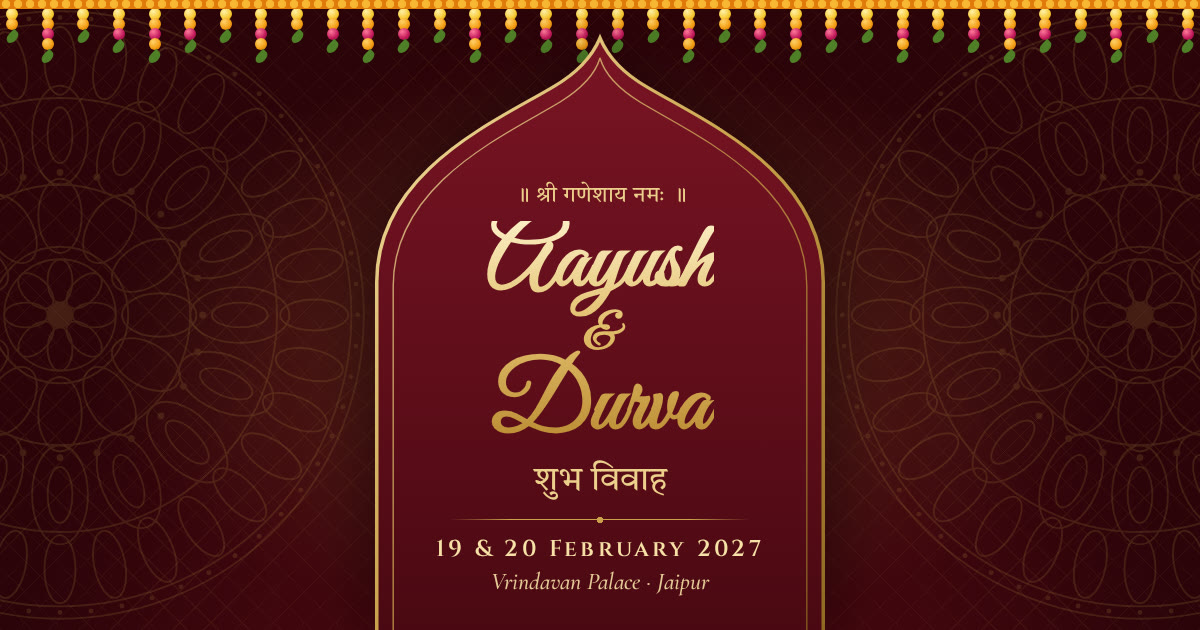
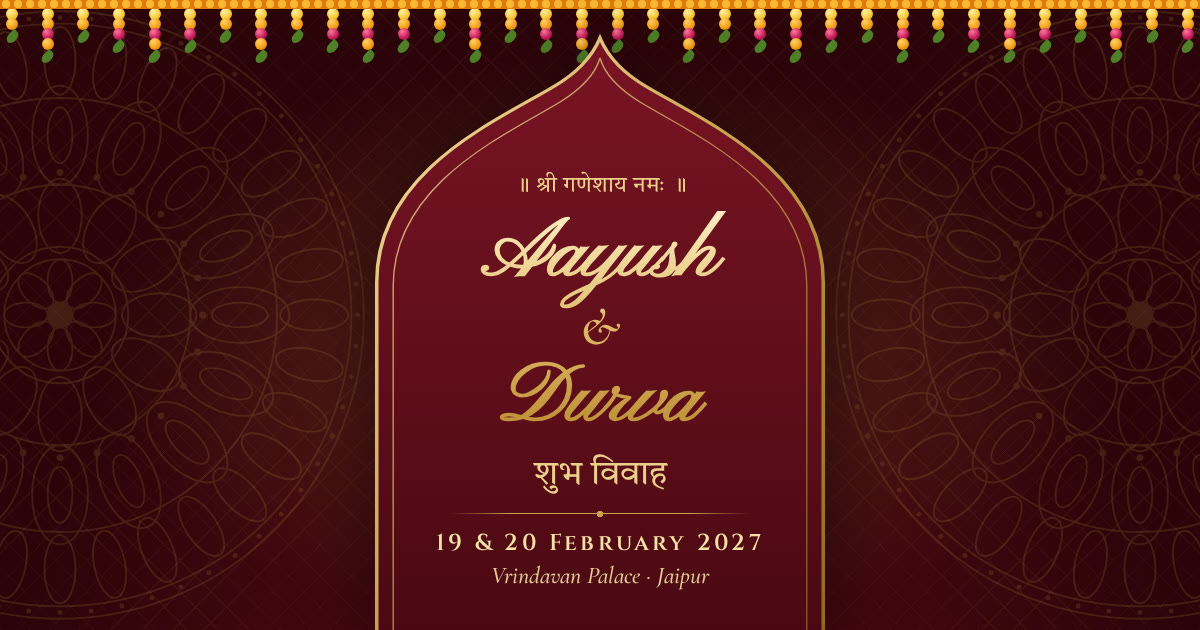
Use Pinyon Script for a clear capital A, fix phone layouts, rename to aarva
- Script font: Great Vibes -> Pinyon Script (its A read as a lowercase a)
  with padding so gold swashes aren't clipped; italic serif ampersand
- Contact cards: role text no longer runs into the arched top on phones
- Nav links share the width so Contact never gets cut off
- Link preview image regenerated with the new font
- aarava -> aarva in preview URLs and calendar IDs

Claude-Session: https://claude.ai/code/session_01J8Q5HpgtyZgNQHBTM1tXKH

Changed region(s): [[0.4008, 0.2714, 0.6167, 0.6937], [0.37, 0.8143, 0.6475, 0.9349], [0.4317, 0.7238, 0.555, 0.7841]]

diff --git a/css/style.css b/css/style.css
@@ -23,7 +23,7 @@
 
   --serif: "Cormorant Garamond", Georgia, serif;
   --display: "Cinzel", "Cormorant Garamond", serif;
-  --script: "Great Vibes", cursive;
+  --script: "Pinyon Script", cursive;
   --hindi: "Tiro Devanagari Hindi", serif;
 
   --nav-h: 56px;
@@ -252,6 +252,7 @@ button { font: inherit; }
 .gate-names {
   position: relative;
   margin: -6px 0 0;
+  padding: .1em .3em;
   font-family: var(--script);
   font-size: clamp(2rem, 8vw, 2.6rem);
   background: var(--gold-text);
@@ -461,13 +462,14 @@ button { font: inherit; }
 }
 .names {
   margin: 4px 0;
+  padding: .1em .3em;
   display: flex;
   flex-direction: column;
   align-items: center;
   font-family: var(--script);
   font-weight: 400;
-  font-size: clamp(3rem, 14vw, 4.6rem);
-  line-height: .95;
+  font-size: clamp(2.9rem, 13vw, 4.4rem);
+  line-height: 1.05;
   background: var(--gold-text);
   -webkit-background-clip: text;
   background-clip: text;
@@ -475,6 +477,10 @@ button { font: inherit; }
   filter: drop-shadow(0 2px 0 rgba(0,0,0,.25));
 }
 .names .amp { font-size: .55em; line-height: 1.1; }
+/* Pinyon's ampersand is hard to read — use the italic serif one */
+.amp { font-family: var(--serif); font-style: italic; font-weight: 500; }
+.gate-names .amp,
+.closing-names .amp { font-size: .75em; }
 .hindi-title {
   margin: 6px 0 0;
   font-size: clamp(1.3rem, 5.5vw, 1.7rem);
@@ -1169,6 +1175,7 @@ button { font: inherit; }
 }
 .venue-info h3 {
   margin: 0;
+  padding: .1em .3em .1em 0;
   font-family: var(--script);
   font-weight: 400;
   font-size: clamp(2.6rem, 9vw, 3.6rem);
@@ -1269,6 +1276,7 @@ button { font: inherit; }
 .closing-hi { margin: 0; font-size: 1.6rem; color: var(--gold-light); }
 .closing-names {
   margin: 8px 0;
+  padding: .1em .3em;
   font-family: var(--script);
   font-size: clamp(3rem, 12vw, 4.6rem);
   line-height: 1.1;
@@ -1409,12 +1417,14 @@ button { font: inherit; }
   .cd-box { width: 62px; }
   .cd-num { font-size: 1.35rem; }
 
-  .nav-links a { padding: 6px 8px; font-size: .66rem; letter-spacing: .08em; }
+  .nav { padding: 0 8px; }
+  .nav-links { flex: 1; justify-content: space-between; }
+  .nav-links a { padding: 6px clamp(4px, 1.6vw, 8px); font-size: clamp(.56rem, 2.75vw, .66rem); letter-spacing: .05em; }
 
   .contacts { grid-template-columns: 1fr 1fr; gap: 12px; }
-  .contact { padding: 22px 10px 16px; border-radius: 70px 70px 12px 12px; }
+  .contact { padding: 40px 10px 16px; border-radius: 50% 50% 12px 12px / 48px 48px 12px 12px; }
   .contact-name { font-size: 1.1rem; }
-  .contact-role { font-size: .55rem; letter-spacing: .14em; }
+  .contact-role { font-size: .58rem; letter-spacing: .1em; line-height: 1.5; }
 }
 
 @media (max-width: 420px) {

diff --git a/index.html b/index.html
@@ -11,19 +11,19 @@
   <meta property="og:title" content="Aayush & Durva · शुभ विवाह" />
   <meta property="og:description" content="19 & 20 February 2027 · Vrindavan Palace, Jaipur. Tap to open your invitation." />
   <meta property="og:type" content="website" />
-  <meta property="og:url" content="https://breakitaayush.github.io/aarava/" />
-  <meta property="og:image" content="https://breakitaayush.github.io/aarava/assets/og-image.jpg" />
-  <meta property="og:image:secure_url" content="https://breakitaayush.github.io/aarava/assets/og-image.jpg" />
+  <meta property="og:url" content="https://breakitaayush.github.io/aarva/" />
+  <meta property="og:image" content="https://breakitaayush.github.io/aarva/assets/og-image.jpg" />
+  <meta property="og:image:secure_url" content="https://breakitaayush.github.io/aarva/assets/og-image.jpg" />
   <meta property="og:image:type" content="image/jpeg" />
   <meta property="og:image:width" content="1200" />
   <meta property="og:image:height" content="630" />
   <meta property="og:image:alt" content="Aayush & Durva · शुभ विवाह · 19 & 20 February 2027 · Vrindavan Palace, Jaipur" />
   <meta name="twitter:card" content="summary_large_image" />
-  <meta name="twitter:image" content="https://breakitaayush.github.io/aarava/assets/og-image.jpg" />
+  <meta name="twitter:image" content="https://breakitaayush.github.io/aarva/assets/og-image.jpg" />
 
   <link rel="preconnect" href="https://fonts.googleapis.com" />
   <link rel="preconnect" href="https://fonts.gstatic.com" crossorigin />
-  <link href="https://fonts.googleapis.com/css2?family=Cinzel:wght@400;600;700&family=Cormorant+Garamond:ital,wght@0,400;0,500;0,600;1,400&family=Great+Vibes&family=Tiro+Devanagari+Hindi&display=swap" rel="stylesheet" />
+  <link href="https://fonts.googleapis.com/css2?family=Cinzel:wght@400;600;700&family=Cormorant+Garamond:ital,wght@0,400;0,500;0,600;1,400&family=Pinyon+Script&family=Tiro+Devanagari+Hindi&display=swap" rel="stylesheet" />
   <link rel="stylesheet" href="css/style.css" />
 </head>
 <body class="locked">

diff --git a/js/main.js b/js/main.js
@@ -16,7 +16,7 @@
     else el.remove();
   });
   const names = `${W.couple.groom} & ${W.couple.bride}`;
-  $$("[data-names]").forEach((el) => (el.textContent = names));
+  $$("[data-names]").forEach((el) => (el.innerHTML = `${esc(W.couple.groom)} <span class="amp">&amp;</span> ${esc(W.couple.bride)}`));
   $$("[data-mono]").forEach((el) => (el.textContent = W.couple.monogram[el.dataset.mono]));
   $$("[data-monogram]").forEach((el) => (el.textContent = `${W.couple.monogram[0]} ✦ ${W.couple.monogram[1]}`));
 
@@ -152,8 +152,8 @@
     const stamp = (d) => d.toISOString().replace(/[-:]/g, "").replace(/\.\d{3}/, "");
     const text = (s) => String(s).replace(/[,;\\]/g, (m) => "\\" + m).replace(/\n/g, "\\n");
     const ics = [
-      "BEGIN:VCALENDAR", "VERSION:2.0", "PRODID:-//Aarava//Wedding Invite//EN", "BEGIN:VEVENT",
-      `UID:${stamp(e.s)}-${e.name.replace(/\W/g, "")}@aarava`,
+      "BEGIN:VCALENDAR", "VERSION:2.0", "PRODID:-//Aarva//Wedding Invite//EN", "BEGIN:VEVENT",
+      `UID:${stamp(e.s)}-${e.name.replace(/\W/g, "")}@aarva`,
       `DTSTAMP:${stamp(new Date())}`, `DTSTART:${stamp(e.s)}`, `DTEND:${stamp(e.e)}`,
       `SUMMARY:${text(`${e.name} · ${names}`)}`,
       `LOCATION:${text(`${W.venue.name}, ${W.venue.address}`)}`,
